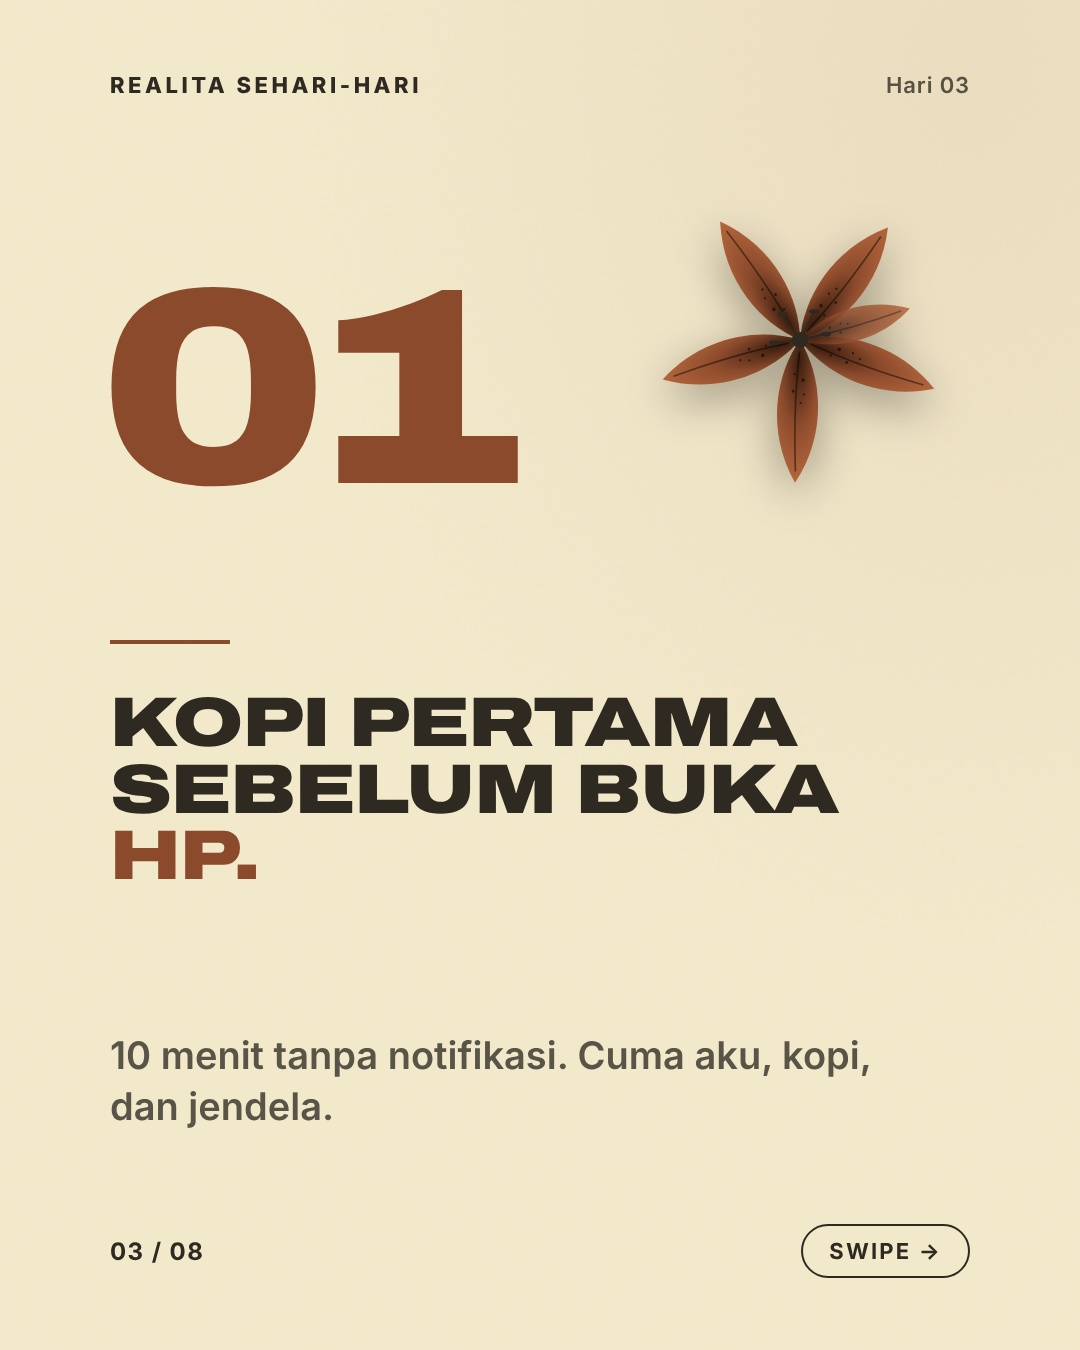
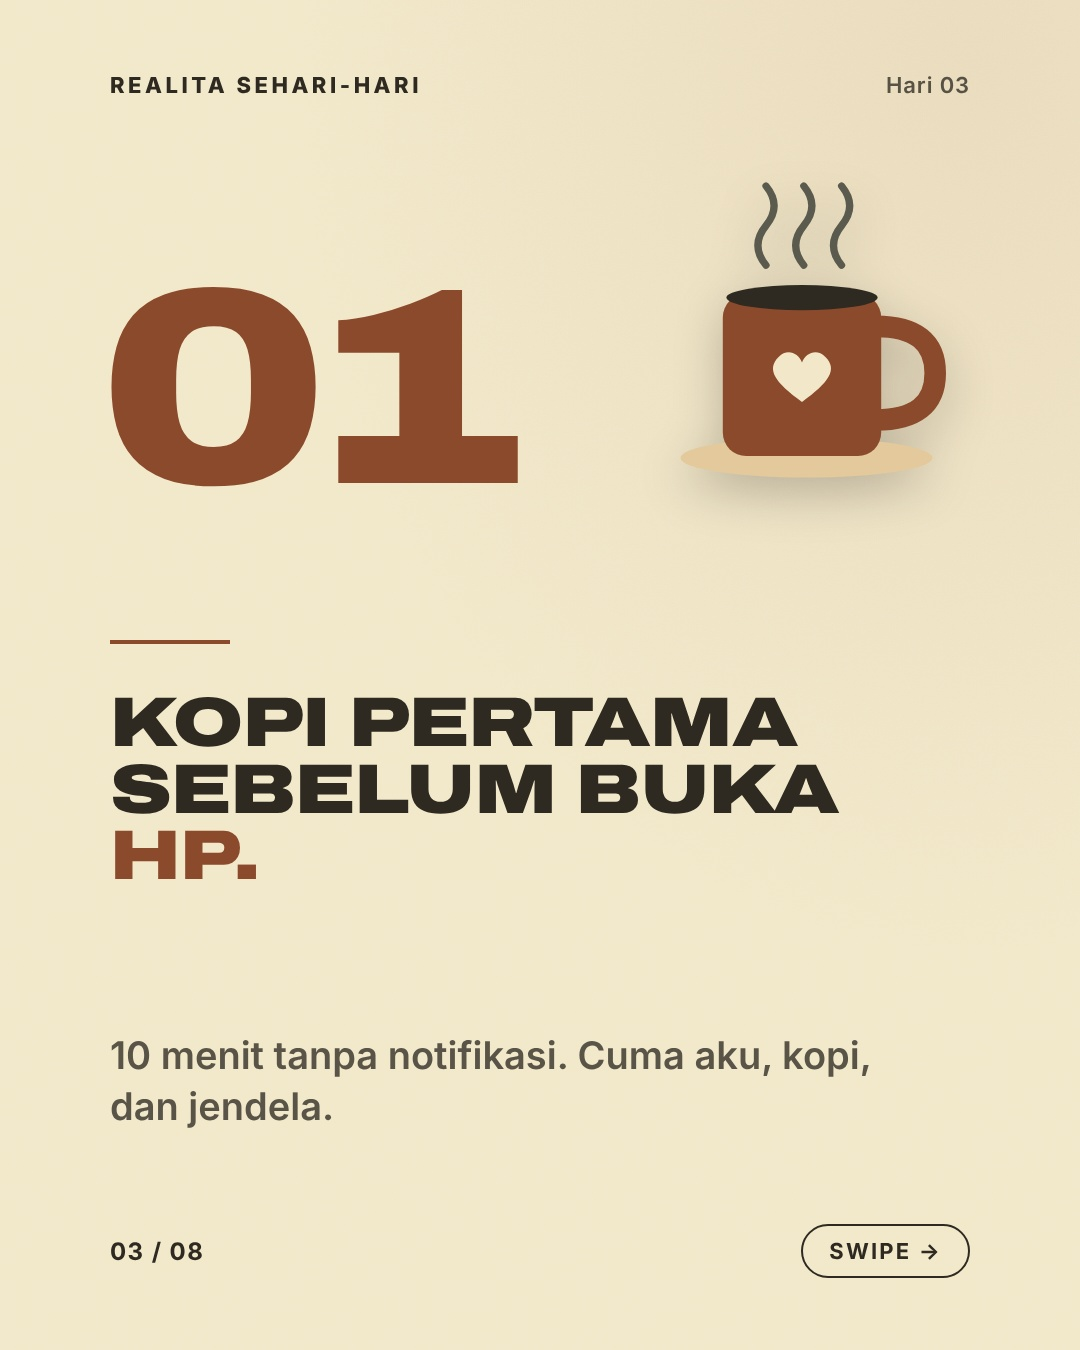
Add a unique illustration to each Hari 3 carousel slide
Claude-Session: https://claude.ai/code/session_01Aizai9SxLuPQy71PnL1sYN

Changed region(s): [[0.6111, 0.1244, 0.8861, 0.3733]]

diff --git a/carousel/hari-03/slides.html b/carousel/hari-03/slides.html
@@ -25,6 +25,14 @@
   .brand{position:absolute;top:72px;left:110px;z-index:3;font-weight:800;letter-spacing:.16em;font-size:22px}
   .tag{position:absolute;top:72px;right:110px;z-index:3;font-weight:600;font-size:22px;letter-spacing:.04em;color:var(--sub)}
   .flower{position:absolute;z-index:2;filter:drop-shadow(0 14px 22px rgba(0,0,0,.35))}
+  .art{position:absolute;z-index:2;filter:drop-shadow(0 16px 24px rgba(0,0,0,.22))}
+  .t-black{--i1:#8C4A2C;--i2:#E3C99C;--i3:#F2E8C9;--ik:#2E2A22}
+  .t-white{--i1:#8C4A2C;--i2:#E3C99C;--i3:#5A5A4E;--ik:#2E2A22}
+  .t-burgundy{--i1:#F2E8C9;--i2:#E3C99C;--i3:#5A5A4E;--ik:#2E2A22}
+  .art .a{fill:var(--i1)} .art .b{fill:var(--i2)} .art .c{fill:var(--i3)} .art .k{fill:var(--ik)}
+  .art .s{fill:none;stroke:var(--ik);stroke-width:9;stroke-linecap:round;stroke-linejoin:round}
+  .art .sc{fill:none;stroke:var(--i3);stroke-width:9;stroke-linecap:round;stroke-linejoin:round}
+  .art .sa{fill:none;stroke:var(--i1);stroke-width:9;stroke-linecap:round;stroke-linejoin:round}
   h1,h2{font-family:'Druk Wide','Archivo',sans-serif;font-stretch:125%;font-weight:900;text-transform:uppercase;letter-spacing:-.01em;line-height:.95}
   h1 em,h2 em{font-style:normal;color:var(--accent)}
   .t-white h1 em,.t-white h2 em,.t-black h1 em,.t-black h2 em{color:var(--accent)}
@@ -71,20 +79,89 @@
 const BRAND = 'REALITA SEHARI-HARI';
 const TAG = 'Hari 03';
 const slides = [
-  {type:'cover',   theme:'black',    h:'Nggak perlu <em>mahal</em> buat bahagia hari ini.', p:'5 hal kecil yang bikin hariku oke.'},
-  {type:'context', theme:'burgundy', h:'Hidupku biasa saja. Tapi ada hal-hal <em>kecil</em> yang bikin hari terasa lebih <em>ringan.</em>'},
-  {type:'item', theme:'white', n:'01', h:'Kopi pertama sebelum buka <em>HP.</em>', p:'10 menit tanpa notifikasi. Cuma aku, kopi, dan jendela.'},
-  {type:'item', theme:'black', n:'02', h:'Jalan kaki <em>sore.</em>', p:'Nggak ada tujuan. Cuma keluar rumah dan lihat langit.'},
-  {type:'item', theme:'white', n:'03', h:'Sprei yang baru <em>diganti.</em>', p:'Kenikmatan paling diremehkan di dunia orang dewasa.'},
-  {type:'item', theme:'black', n:'04', h:'Masak makanan <em>sederhana</em> sendiri.', p:'Telur ceplok juga dihitung. <b>Serius.</b>'},
-  {type:'item', theme:'white', n:'05', h:'Chat dari teman <em>lama.</em>', p:'Kadang cukup satu pesan: <b>“apa kabar?”</b>'},
-  {type:'cta',  theme:'burgundy', h:'Bahagia itu bukan acara <em>besar.</em>'},
+  {type:'cover', img:'sun',   theme:'black',    h:'Nggak perlu <em>mahal</em> buat bahagia hari ini.', p:'5 hal kecil yang bikin hariku oke.'},
+  {type:'context', img:'window', theme:'burgundy', h:'Hidupku biasa saja. Tapi ada hal-hal <em>kecil</em> yang bikin hari terasa lebih <em>ringan.</em>'},
+  {type:'item', theme:'white', n:'01', img:'mug', h:'Kopi pertama sebelum buka <em>HP.</em>', p:'10 menit tanpa notifikasi. Cuma aku, kopi, dan jendela.'},
+  {type:'item', theme:'black', n:'02', img:'sunset', h:'Jalan kaki <em>sore.</em>', p:'Nggak ada tujuan. Cuma keluar rumah dan lihat langit.'},
+  {type:'item', theme:'white', n:'03', img:'bed', h:'Sprei yang baru <em>diganti.</em>', p:'Kenikmatan paling diremehkan di dunia orang dewasa.'},
+  {type:'item', theme:'black', n:'04', img:'pan', h:'Masak makanan <em>sederhana</em> sendiri.', p:'Telur ceplok juga dihitung. <b>Serius.</b>'},
+  {type:'item', theme:'white', n:'05', img:'phone', h:'Chat dari teman <em>lama.</em>', p:'Kadang cukup satu pesan: <b>“apa kabar?”</b>'},
+  {type:'cta',  img:'heart', theme:'burgundy', h:'Bahagia itu bukan acara <em>besar.</em>'},
 ];
 // =========================
 const total = slides.length;
 const petal = g => `<path d="M0 0 C 40 -60, 55 -160, 0 -250 C -55 -160, -40 -60, 0 0Z" fill="url(#${g})"/>
   <path d="M0 -20 C 6 -90, 4 -170, 0 -230" stroke="rgba(0,0,0,.45)" stroke-width="3" fill="none"/>
   <g fill="rgba(0,0,0,.55)"><circle cx="-8" cy="-70" r="3"/><circle cx="9" cy="-90" r="2.5"/><circle cx="-5" cy="-110" r="2"/><circle cx="7" cy="-60" r="2"/><circle cx="-10" cy="-95" r="2"/></g>`;
+
+const star = (x,y,r,c) => `<path class="${c}" d="M${x} ${y-r} Q${x} ${y} ${x+r} ${y} Q${x} ${y} ${x} ${y+r} Q${x} ${y} ${x-r} ${y} Q${x} ${y} ${x} ${y-r}Z"/>`;
+const ILL = {
+  sun: () => `${Array.from({length:12},(_,k)=>`<rect class="a" x="192" y="22" width="16" height="56" rx="8" transform="rotate(${k*30} 200 200)"/>`).join('')}
+    <circle class="b" cx="200" cy="200" r="112"/>
+    <path class="s" d="M158 192 q13 -16 26 0 M216 192 q13 -16 26 0"/>
+    <path class="s" d="M168 232 q32 34 64 0"/>
+    <circle class="a" cx="146" cy="226" r="11" opacity=".7"/><circle class="a" cx="254" cy="226" r="11" opacity=".7"/>
+    ${star(58,64,30,'c')}${star(350,330,24,'c')}${star(336,70,14,'c')}`,
+  window: () => `<rect class="c" x="70" y="40" width="260" height="240" rx="14"/>
+    <circle class="b" cx="268" cy="98" r="34"/>
+    <rect class="k" x="196" y="40" width="8" height="240"/><rect class="k" x="70" y="156" width="260" height="8"/>
+    <rect class="s" x="70" y="40" width="260" height="240" rx="14"/>
+    <g transform="translate(200 222)">
+      <ellipse class="c" cx="-34" cy="-34" rx="16" ry="42" transform="rotate(-35 -34 -34)" style="fill:#c9ad7c"/>
+      <ellipse cx="34" cy="-38" rx="16" ry="44" transform="rotate(35 34 -38)" style="fill:#c9ad7c"/>
+      <ellipse cx="0" cy="-58" rx="16" ry="48" style="fill:#E3C99C"/>
+    </g>
+    <path class="a" d="M150 212 L250 212 L236 290 L164 290 Z"/>
+    <rect class="k" x="40" y="286" width="320" height="24" rx="8"/>
+    ${star(52,58,22,'a')}${star(356,350,18,'a')}`,
+  mug: () => `<ellipse class="b" cx="185" cy="342" rx="140" ry="22"/>
+    <path class="sa" d="M262 196 q66 0 66 52 q0 52 -66 52" style="stroke-width:24"/>
+    <rect class="a" x="92" y="160" width="176" height="180" rx="26"/>
+    <ellipse class="k" cx="180" cy="164" rx="84" ry="14"/>
+    <path class="c" d="M180 280 c-30 -22 -40 -36 -26 -50 c10 -10 22 -4 26 6 c4 -10 16 -16 26 -6 c14 14 4 28 -26 50z" style="fill:#F2E8C9"/>
+    <path class="s" d="M140 128 q-18 -22 0 -44 q18 -22 0 -44 M182 128 q-18 -22 0 -44 q18 -22 0 -44 M224 128 q-18 -22 0 -44 q18 -22 0 -44" style="stroke:#5A5A4E;stroke-width:8"/>`,
+  sunset: () => `<defs><clipPath id="clipSun"><circle cx="200" cy="200" r="180"/></clipPath></defs>
+    <circle cx="200" cy="200" r="180" style="fill:#6b6a5c"/>
+    <g clip-path="url(#clipSun)">
+      <circle class="b" cx="200" cy="240" r="100"/>
+      <path class="a" d="M0 270 Q100 200 220 262 T420 236 V400 H0Z"/>
+      <path class="k" d="M0 322 Q150 268 260 322 T420 306 V400 H0Z"/>
+      <path class="sc" d="M180 400 Q200 350 250 318" style="stroke-width:12;stroke-dasharray:2 22"/>
+    </g>
+    <path class="sc" d="M90 110 q12 -12 24 0 q12 -12 24 0 M150 82 q9 -9 18 0 q9 -9 18 0" style="stroke-width:7"/>
+    <circle class="s" cx="200" cy="200" r="180" style="stroke:#F2E8C9;stroke-width:6"/>`,
+  bed: () => `<rect class="k" x="40" y="128" width="38" height="216" rx="12"/>
+    <rect class="k" x="62" y="330" width="18" height="40" rx="4"/><rect class="k" x="330" y="330" width="18" height="40" rx="4"/>
+    <rect class="a" x="40" y="282" width="320" height="58" rx="12"/>
+    <rect class="b" x="74" y="236" width="286" height="54" rx="16"/>
+    <rect x="88" y="198" width="104" height="48" rx="24" style="fill:#fffaf0;stroke:#2E2A22;stroke-width:7"/>
+    <rect class="c" x="196" y="228" width="164" height="64" rx="16"/>
+    <path class="sc" d="M214 262 h120" style="stroke:#F2E8C9;stroke-width:6;stroke-dasharray:14 12"/>
+    ${star(262,140,26,'a')}${star(318,92,16,'a')}${star(214,96,12,'a')}`,
+  pan: () => `<rect class="k" x="270" y="282" width="140" height="34" rx="17" transform="rotate(38 270 282)"/>
+    <circle class="k" cx="180" cy="200" r="128"/>
+    <circle cx="180" cy="200" r="106" style="fill:#3d3a30"/>
+    <path class="c" d="M120 170 c10 -50 80 -60 110 -30 c40 10 50 70 20 92 c-20 40 -90 44 -116 10 c-30 -14 -30 -56 -14 -72z"/>
+    <circle class="a" cx="182" cy="196" r="34"/><circle cx="170" cy="184" r="9" style="fill:#F2E8C9;opacity:.6"/>
+    <path class="sc" d="M110 60 q-14 -18 0 -36 M180 52 q-14 -18 0 -36 M250 60 q-14 -18 0 -36" style="stroke-width:8"/>`,
+  phone: () => `<rect class="k" x="96" y="60" width="176" height="320" rx="30"/>
+    <rect x="110" y="88" width="148" height="264" rx="16" style="fill:#fffaf0"/>
+    <rect class="c" x="122" y="120" width="96" height="40" rx="18"/>
+    <rect class="a" x="150" y="178" width="96" height="40" rx="18"/>
+    <rect class="c" x="122" y="236" width="70" height="40" rx="18"/>
+    <rect class="k" x="158" y="72" width="52" height="8" rx="4"/>
+    <g transform="translate(206 14)">
+      <rect class="a" x="0" y="0" width="186" height="74" rx="37"/>
+      <path class="a" d="M36 66 L22 96 L64 70Z"/>
+      <text x="93" y="47" text-anchor="middle" style="font:800 26px Inter,sans-serif;fill:#F2E8C9">apa kabar?</text>
+    </g>
+    ${star(60,330,22,'a')}${star(330,250,16,'a')}`,
+  heart: () => `<circle class="s" cx="200" cy="200" r="170" style="stroke-dasharray:4 18;stroke-width:6"/>
+    <path class="a" d="M200 320 C110 256 70 210 80 156 C90 104 160 92 200 144 C240 92 310 104 320 156 C330 210 290 256 200 320Z"/>
+    <path d="M200 268 C156 238 136 214 140 188 C146 160 180 154 200 180 C220 154 254 160 260 188 C264 214 244 238 200 268Z" style="fill:#8C4A2C"/>
+    ${star(70,80,30,'b')}${star(338,96,20,'b')}${star(330,330,26,'b')}${star(60,320,14,'b')}`,
+};
+const art = (name, style, size) => `<svg class="art" style="${style}" width="${size}" height="${size}" viewBox="0 0 400 400">${ILL[name]()}</svg>`;
 const lily = (theme, style, size, rot) => {
   const g = theme==='burgundy' ? 'petK' : 'petB';
   const P = a => `<g transform="rotate(${a})">${petal(g)}</g>`;
@@ -104,10 +181,10 @@ const icon = {
 };
 document.getElementById('root').outerHTML = slides.map((s,i)=>{
   const t = s.theme; let body='';
-  if(s.type==='cover') body = lily(t,'top:110px;right:70px',420,0)+`<h1>${s.h}</h1><div class="bar"></div><p>${s.p}</p>`;
-  if(s.type==='context') body = lily(t,'top:160px;right:90px',340,25)+`<h2>${s.h}</h2>`+sq('top:1070px;left:110px');
-  if(s.type==='item') body = lily(t,`top:${180+(i%2)*30}px;right:${80+(i%3)*20}px`,320,i*23)+`<div class="num">${s.n}</div><div class="rule"></div><h2>${s.h}</h2><p>${s.p}</p>`;
-  if(s.type==='cta') body = lily(t,'top:140px;right:70px',400,15)+`<h2>${s.h}</h2>
+  if(s.type==='cover') body = art(s.img,'top:120px;right:80px',400)+`<h1>${s.h}</h1><div class="bar"></div><p>${s.p}</p>`;
+  if(s.type==='context') body = art(s.img,'top:130px;right:90px',360)+`<h2>${s.h}</h2>`+sq('top:1070px;left:110px');
+  if(s.type==='item') body = art(s.img,'top:150px;right:80px',360)+`<div class="num">${s.n}</div><div class="rule"></div><h2>${s.h}</h2><p>${s.p}</p>`;
+  if(s.type==='cta') body = art(s.img,'top:110px;right:80px',400)+`<h2>${s.h}</h2>
     <div class="icons">
       <div>${icon.chat}<span>Hal kecil apa yang bikin harimu oke?</span></div>
       <div>${icon.save}<span>Simpan untuk hari yang berat</span></div>
